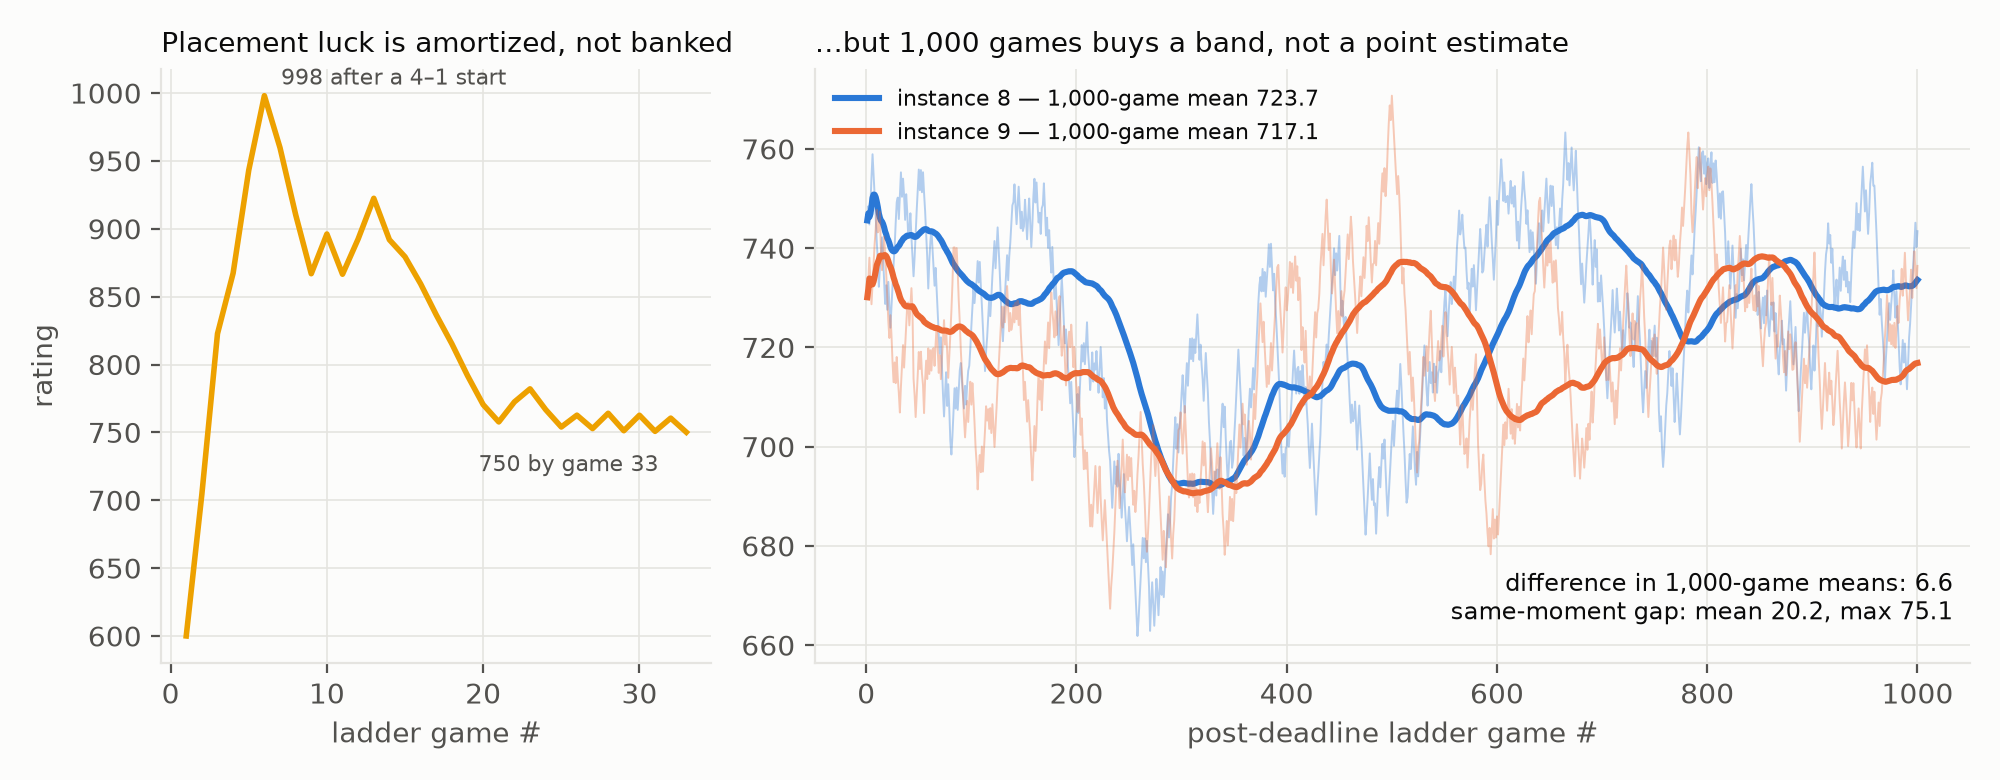
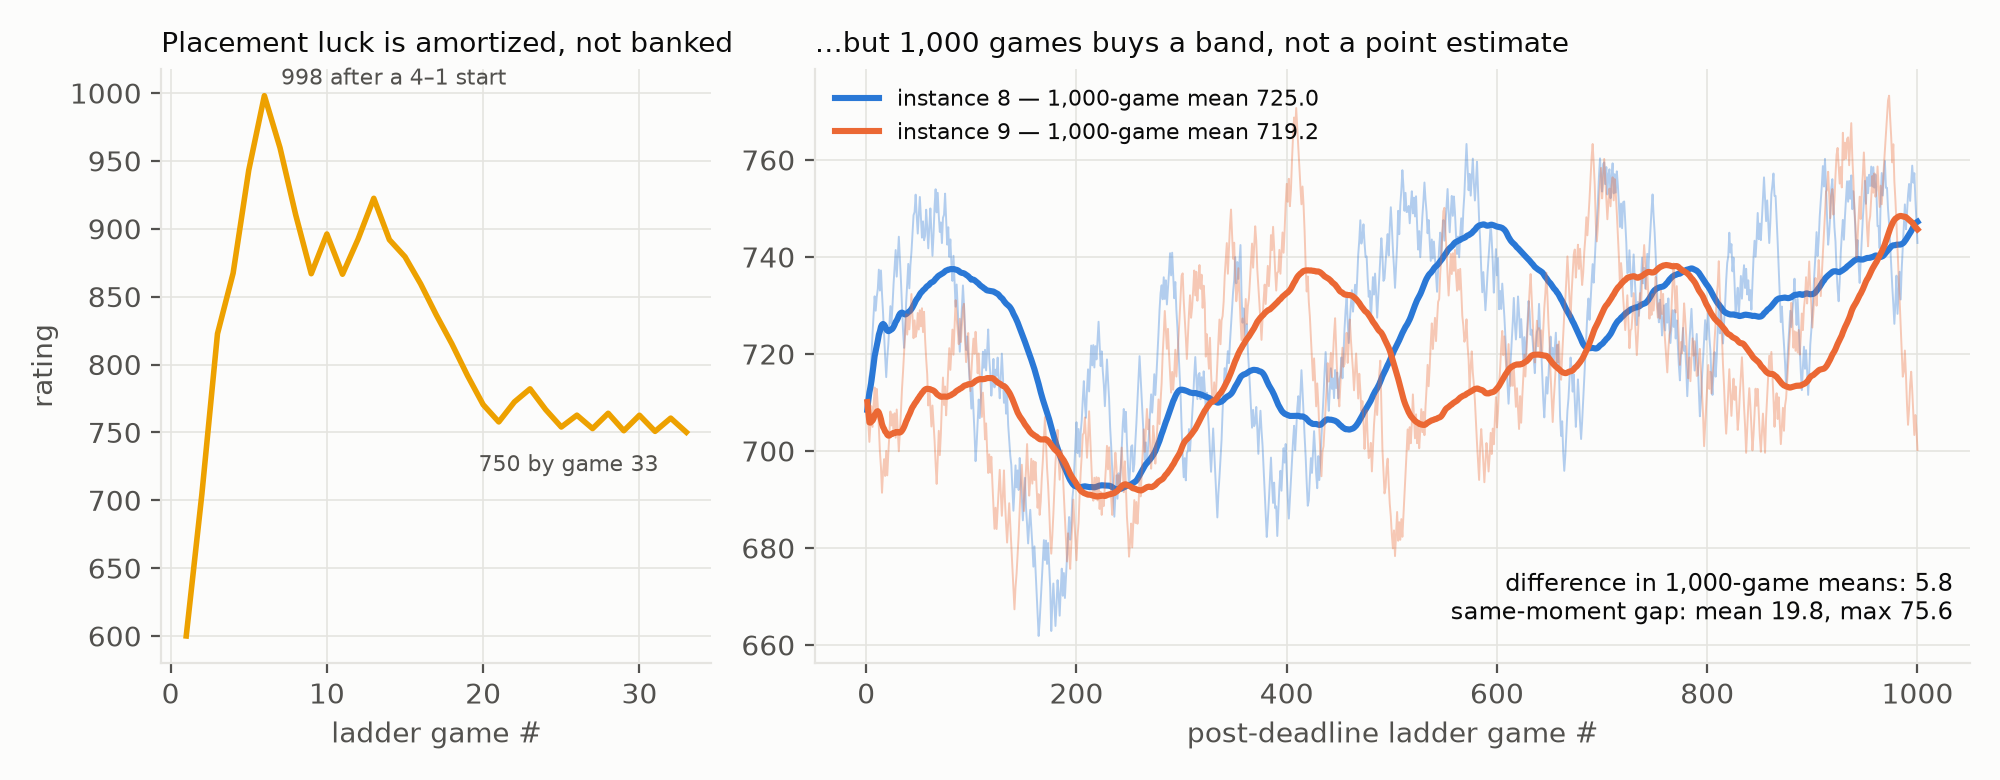
9/10 재측정: 래더 8/31 종료 확정, 초안 2 최종 수치 반영 (A4 종결, 본문 1,986단어)
- watch_rank/watch_pair/fetch-ladder: 마지막 경기 2026-08-31 23:58 UTC, 9/6·9/10 판독 동일
- §1 742.8(54.0%)/700.2(53.0%), 1,000경기 평균 725.0/719.2, 순위 1,611/6,807
- §4 평균 차 5.8, 동시점 격차 19.8/75.6, 최종 판독 격차 43 추가; §6 54.0/53.0
- 그림 E 갱신 창(8/21–8/31)으로 재생성, triage A4 종결, 07-strategy-track 9/10 노트

diff --git a/docs/ptcg/writeup/draft-2.md b/docs/ptcg/writeup/draft-2.md
@@ -10,7 +10,7 @@ We treated the ladder itself as the object of study. Every build is a **distribu
 
 Our final agent is not a novel learning system. It is a public rule-based agent — Rozen's V10, credited explicitly — improved by five audited surgeries, of which the evidence let only two ship. The originality we claim is in the method, not the policy code.
 
-Final entry: a matched **pair of the same build**. After 1,000 post-deadline games each they finished **740.2 (53.5%)** and **731.9 (52.9%)**, with 1,000-game means of 723.7 and 717.1. Final placement **1,649 / 6,807** (top 24%).
+Final entry: a matched **pair of the same build**. When the ladder stopped (31 Aug) they stood at **742.8 (54.0%)** and **700.2 (53.0%)** over their last 1,000 games, with 1,000-game means of 725.0 and 719.2. Final placement **1,611 / 6,807** (top 24%).
 
 ---
 
@@ -63,7 +63,7 @@ Three mechanisms, each measured:
 2. **New-submission scheduling priority.** In one window a fresh submission played 32 games while an older one played 1; same-day is not same-sample.
 3. **Drift control.** An identical build resubmitted three days later scored 825.4 against a pre-period mean of 782 (n = 4). Inside the band: rating inflation rejected, not assumed.
 
-**The closing experiment.** We locked two instances of one build as our final pair and watched 1,000 post-deadline games each. Their 1,000-game means differ by **6.6**, against a same-build spread of 134 at ~50 games. But convergence buys a *band*, not a point: at matched game counts the two sat 20.2 points apart on average, up to 75.1, and their 100-game rolling means crossed repeatedly. That is why we fired zero of five available submissions on the final day: once placement luck is amortized, resubmitting identical code has expected value zero. We held, and logged the hold as a decision.
+**The closing experiment.** We locked two instances of one build as our final pair and watched 1,000 post-deadline games each. Their 1,000-game means differ by **5.8**, against a same-build spread of 134 at ~50 games. But convergence buys a *band*, not a point: at matched game counts the two sat 19.8 points apart on average, up to 75.6, their 100-game rolling means crossed repeatedly, and the ladder's last read had them 43 apart. That is why we fired zero of five available submissions on the final day: once placement luck is amortized, resubmitting identical code has expected value zero. We held, and logged the hold as a decision.
 
 ---
 
@@ -87,7 +87,7 @@ Daily replay exports let us compute the archetype composition of the top pool at
 - **Gates that stopped measuring.** Generic opponents saturated at 85–90% in week one, so we built a distilled-opponent gate that held our search lineage near **52.5%**. By the final lineage it too had saturated (85%); only the incumbent mirror stayed informative at 50%. Figure D shows the saturation; it is why the ladder distribution, not the local gate, became our arbiter.
 - **No initial-state dependence.** The cascade branches on board state only — no opening-specific cases, seat-specific tables, or hard-coded turn numbers. Measured by seat (Figure D): mirror 43.3% vs 56.7% (n=30 each), saturated gates 95% vs 90% (n=40 each); the tilt sits inside the interval.
 - **Worst cases published.** Both losing matchups are stated with sample sizes and the mechanism that binds them: higher rating means more exposure to the strongest archetype, so the ceiling tightens as you climb.
-- **Consistency at scale.** Two locked instances, same code, independent match streams: 53.5% and 52.9% over 1,000 games each (95% CI ±3.1 points).
+- **Consistency at scale.** Two locked instances, same code, independent match streams: 54.0% and 53.0% over their last 1,000 games each (95% CI ±3.1 points).
 
 ---
 
@@ -141,3 +141,5 @@ Open for Draft 3: (a) RESOLVED 9/2 — host rulings (Strategy topics 735679/7383
 External review corrections (2026-09-06, Codex blind judge + fact-check, triage in `writeup/review/triage-2026-09-06.md`) — 9 of 9 text fixes applied: §2 "two most-played" → "first- and third-most-played" (Dragapult, 2nd by share, won 58.1%); §3/§7/Figure A "won every local gate" → "passed every local no-regression gate (S2's mirror was a 29–31 tie)"; §5 "two weeks after" → "five days after" (8/21 observation); §4 "at any moment" → "at matched game counts" (script aligns by game index); Figure E rolling window 101 → 100 to match the text; §7 distilled range 484–571 → 327–571 (H-010 hybrid included); §8 "79 rows" → "78 experiments", "script per figure" → "command per figure", "20-point improvement" → "improvement". Figures A and E regenerated. Still open from that review: A4 (final ratings/rank are an 8/31 snapshot; 9/6 read i8 742.8, i9 700.2, rank 1,611 — re-measure 9/10 and date the numbers), plus the judge's additions (card names, S1 definition, top-24% percentile, ±3.1%p CI, seat-split line). wc -w after fixes: 1,997 with captions, 1,908 without.
 
 Judge-driven additions (2026-09-08): §1 "(top 24%)" after placement; §2 card names (Alakazam line, Dunsparce–Dudunsparce engine, Telepath Psychic Energy, Boss's Orders); §3 S1 defined in-line; §4 Kaggle-staff Bradley–Terry / variance remark cited (738791); §6 seat split from Figure D and ±3.1-point CI. The four figure captions moved out of the body into the Media Gallery block above. Body wc -w: 1,969 (captions excluded, separators excluded). Still open: A4 re-measure on 9/10; delete the three empty drafts on the Writeups tab before submitting; re-check SUBMITTED status after submit (bug report 739855).
+
+Final re-measurement (2026-09-10, `watch_rank.py` + `watch_pair.py` + `report_figures.py fetch-ladder`): the ladder's last games for both instances ended 2026-08-31 23:58 UTC and nothing has moved since (9/6 and 9/10 reads identical). Final numbers replace the 8/31 01:00 snapshot: §1 742.8 (54.0%) / 700.2 (53.0%), 1,000-game means 725.0 / 719.2, placement 1,611 / 6,807 (23.7%); §4 mean difference 6.6 → 5.8, same-moment gap 20.2/75.1 → 19.8/75.6, plus the 43-point final-read gap added as further evidence for "a band, not a point"; §6 53.5/52.9 → 54.0/53.0. Figure E regenerated from the refreshed ladder JSONs (window now 8/21–8/31). A4 closed.

diff --git a/docs/ptcg/writeup/review/triage-2026-09-06.md b/docs/ptcg/writeup/review/triage-2026-09-06.md
@@ -2,7 +2,7 @@
 
 원본: [codex-blind-judge](codex-blind-judge-2026-09-06.md) (2패스 채점), [codex-factcheck](codex-factcheck-2026-09-06.md) (수치 대조 표). 아래는 Claude 재검증 후 판정. Draft 3 작업 시 이 파일만 읽으면 됨.
 
-## A. 본문 사실 오류 — 수정 필수 (재검증 완료) — **A1–A3 반영 완료 9/6, A4 미해결**
+## A. 본문 사실 오류 — 수정 필수 (재검증 완료) — **A1–A3 반영 완료 9/6, A4 반영 완료 9/10**
 
 | # | 위치 | 현재 문장 | 근거 | 수정안 |
 |---|---|---|---|---|
@@ -11,7 +11,9 @@
 | A3 | §5 | "→ 32.9% two weeks after" | 32.9%는 8/21 관측 = 마감(8/16) **5일 후** | "five days after" |
 | A4 | §1, §6 | "finished 740.2 (53.5%) and 731.9 (52.9%) … Final placement 1,649 / 6,807" | 8/31 01:00 스냅샷. **9/6 실측: i8 742.8, i9 700.2, 순위 1611/6807** (watch_rank.py). 래더가 아직 움직임 | 1,000경기 윈도우 평균(723.7/717.1)을 주 통계로 두고, 현재 레이팅·순위는 날짜 명시 스냅샷으로. **9/10 재스캔 때 재측정 후 최종 숫자 확정** |
 
-A4 보충: i9가 700대로 내려오면 "matched pair, 6.6점 차" 서사는 1,000경기 평균 기준으로만 성립. 본문에서 "finished"라는 단정 표현은 피하고 "at the 8/31 read" 식으로 시점을 박을 것.
+A4 종결 (9/10): 래더 마지막 경기 2026-08-31 23:58 UTC, 9/6·9/10 판독 동일(i8 742.8/54.0%, i9 700.2/53.0%, 1,000경기 평균 725.0/719.2, 순위 1,611/6,807). §1·§4·§6 숫자 교체, 그림 E 재생성, "When the ladder stopped (31 Aug)"로 시점 명시. 본문 wc -w 1,986.
+
+A4 보충(9/6 당시): i9가 700대로 내려오면 "matched pair, 6.6점 차" 서사는 1,000경기 평균 기준으로만 성립. 본문에서 "finished"라는 단정 표현은 피하고 "at the 8/31 read" 식으로 시점을 박을 것.
 
 ## B. 표현 정밀화 — **B1–B6 반영 완료 9/6** (Figure A·E 재생성)
 

diff --git a/docs/ptcg/07-strategy-track.md b/docs/ptcg/07-strategy-track.md
@@ -104,3 +104,10 @@ Writeup의 메타 분석 장(章)에 넣을 뼈대. 근거 데이터·수치는 
 - **우리 계정 Writeups 탭에 빈 DRAFT 3개** — 제출 전 삭제. 버그 신고 739855(제출본이 정체불명 draft로 덮임) → 제출 후 SUBMITTED 상태 재확인·스크린샷.
 - 상세: [research/2026-09-08-solution-scan.md](research/2026-09-08-solution-scan.md)
 
+## 2026-09-10 재측정 — A4 종결
+
+- `watch_rank.py`: 1,611 / 6,807, 742.8 — 9/6 판독과 동일. 컷: gold 1130.9 / silver 924.0 / bronze 853.7.
+- `watch_pair.py`: i8 742.9 (1,000경기 54.0%), i9 700.2 (53.0%), 두 인스턴스 모두 217시간 무경기. `fetch-ladder`로 원본 갱신: 마지막 경기 2026-08-31 23:58 UTC(i8) / 23:54 UTC(i9) → 래더 종료 확정.
+- 갱신 창(8/21 18:36 → 8/31 23:58) 기준 1,000경기 평균 725.0 / 719.2 (차 5.8), 동시점 격차 평균 19.8 / 최대 75.6, 최종 판독 격차 42.6.
+- draft-2 §1·§4·§6 교체, 그림 E 재생성, 본문 1,986단어(제목·이탤릭 헤더 제외, 섹션 제목·마커 포함). 남은 일: 9/11 마커 제거 → 폼 카운터 확인 → 빈 draft 3개 삭제 → Media Gallery 캡션·deck.csv 첨부 → Submit → SUBMITTED 재확인.
+
